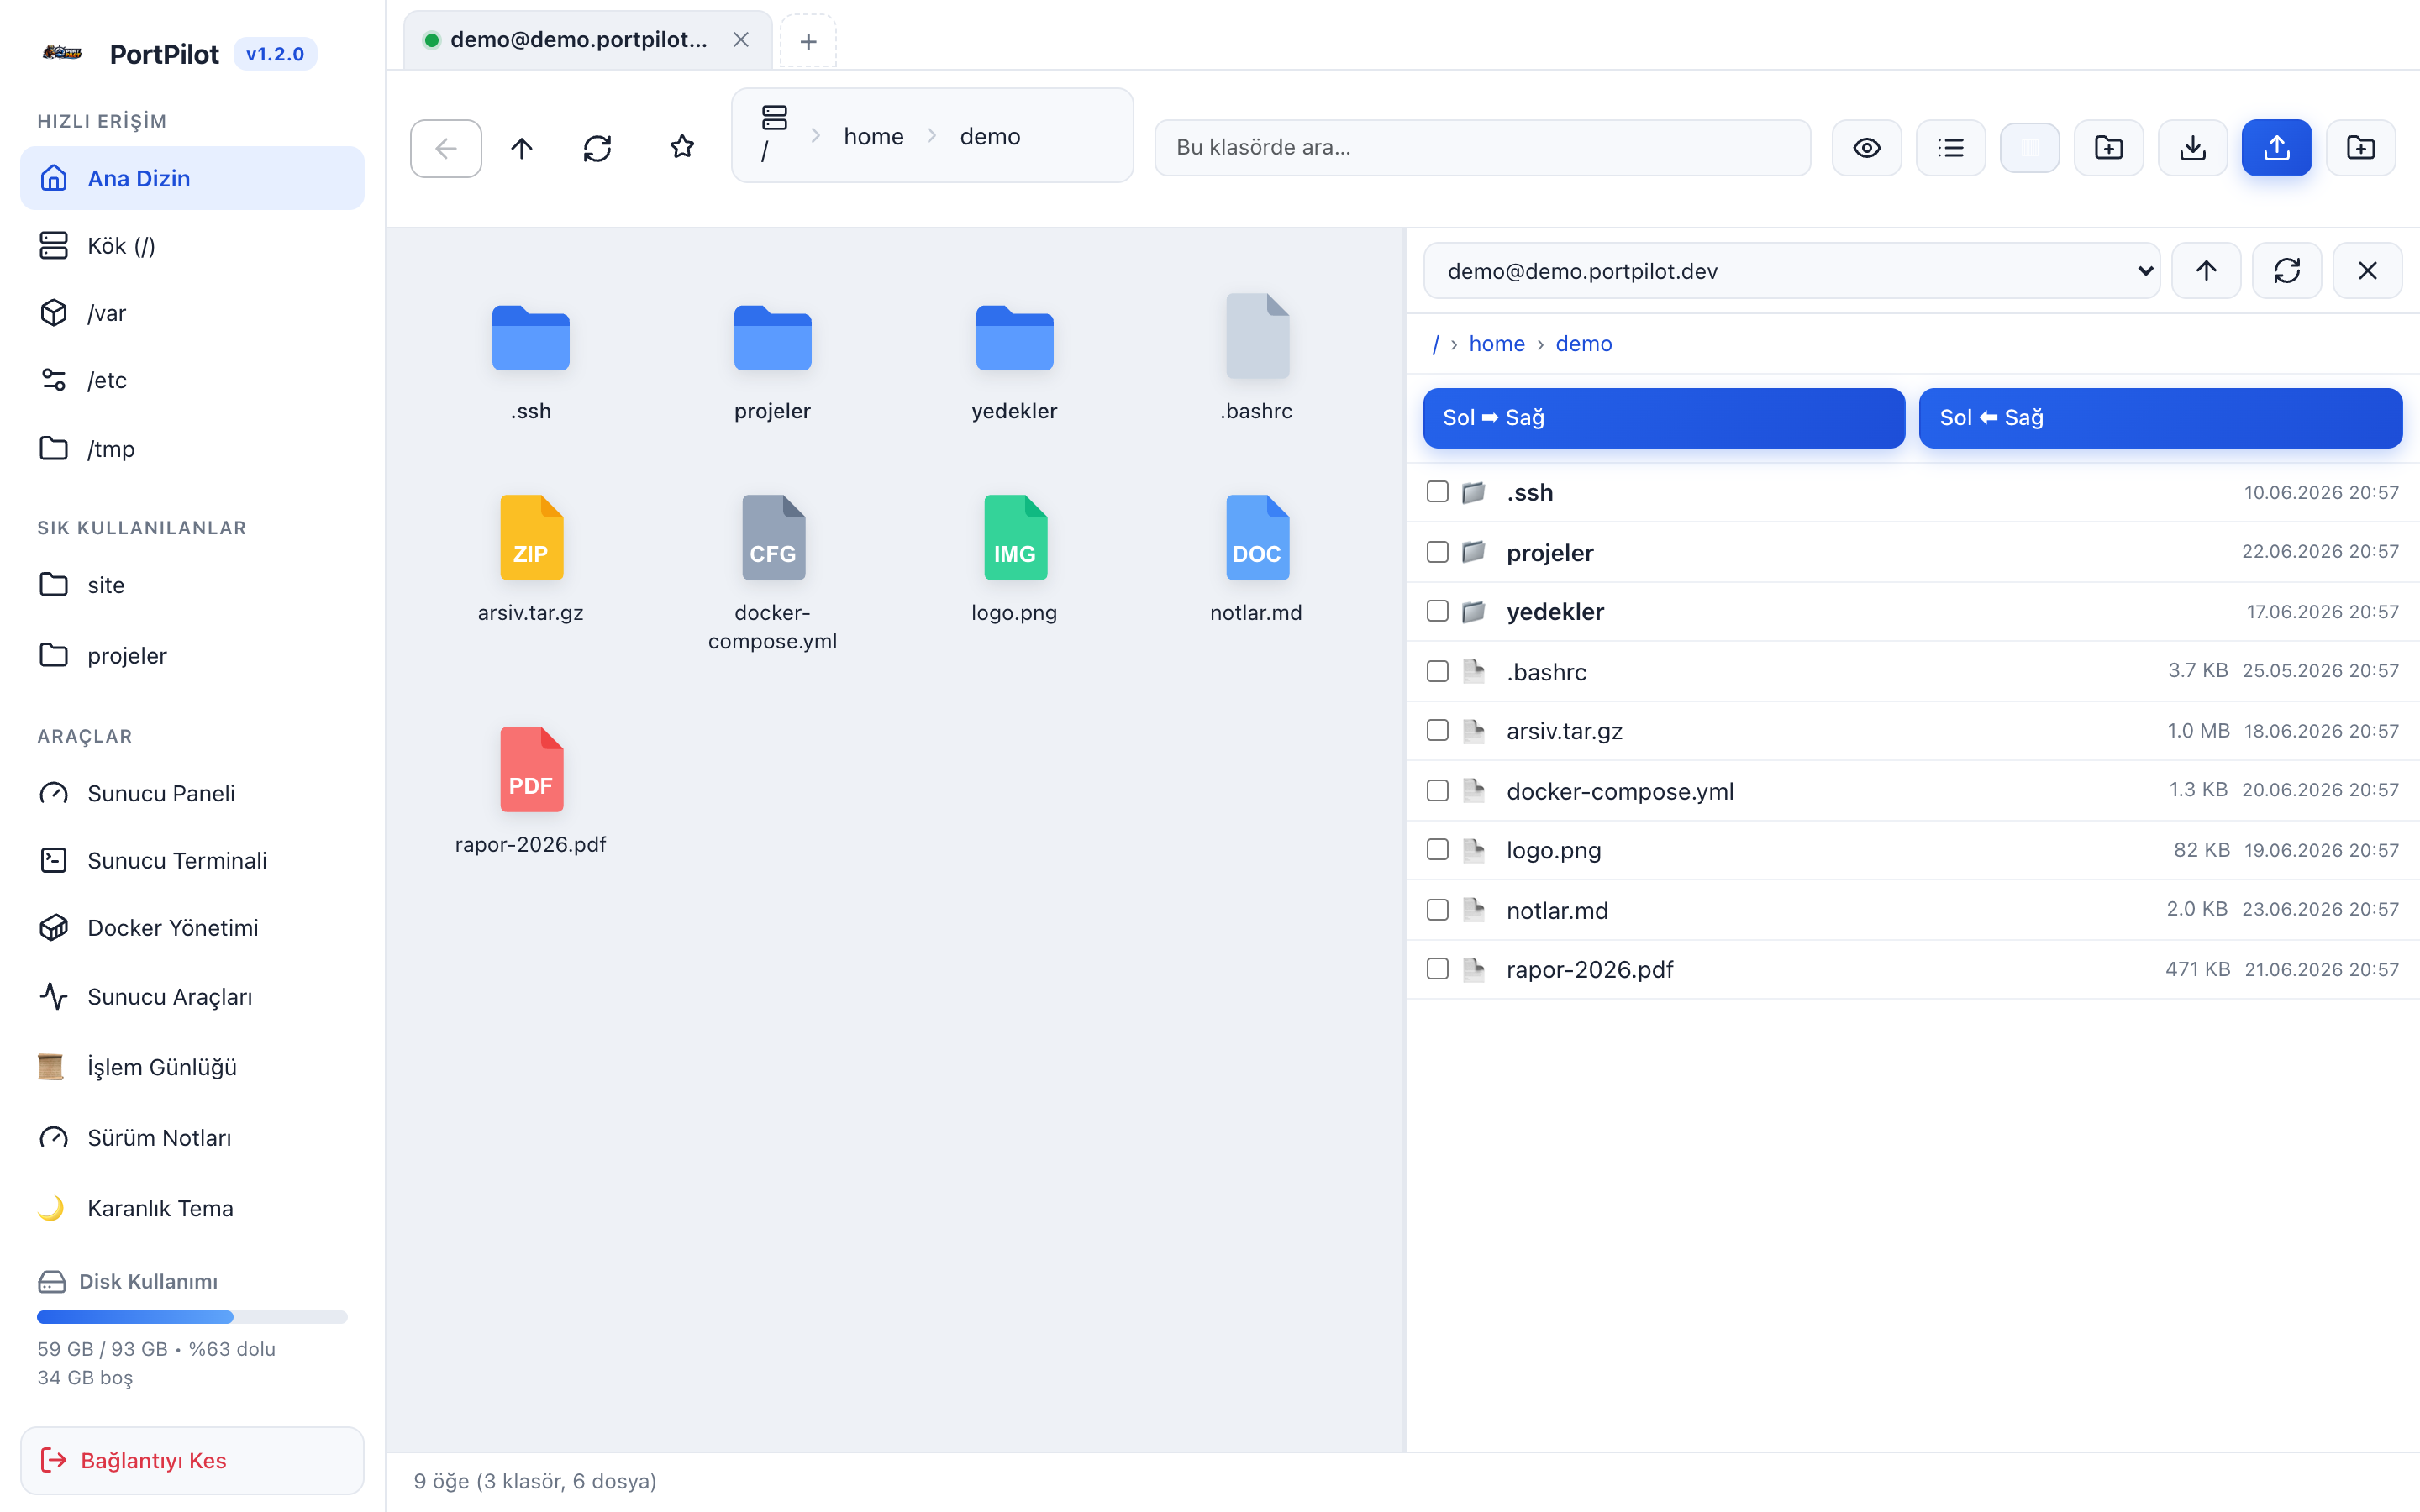
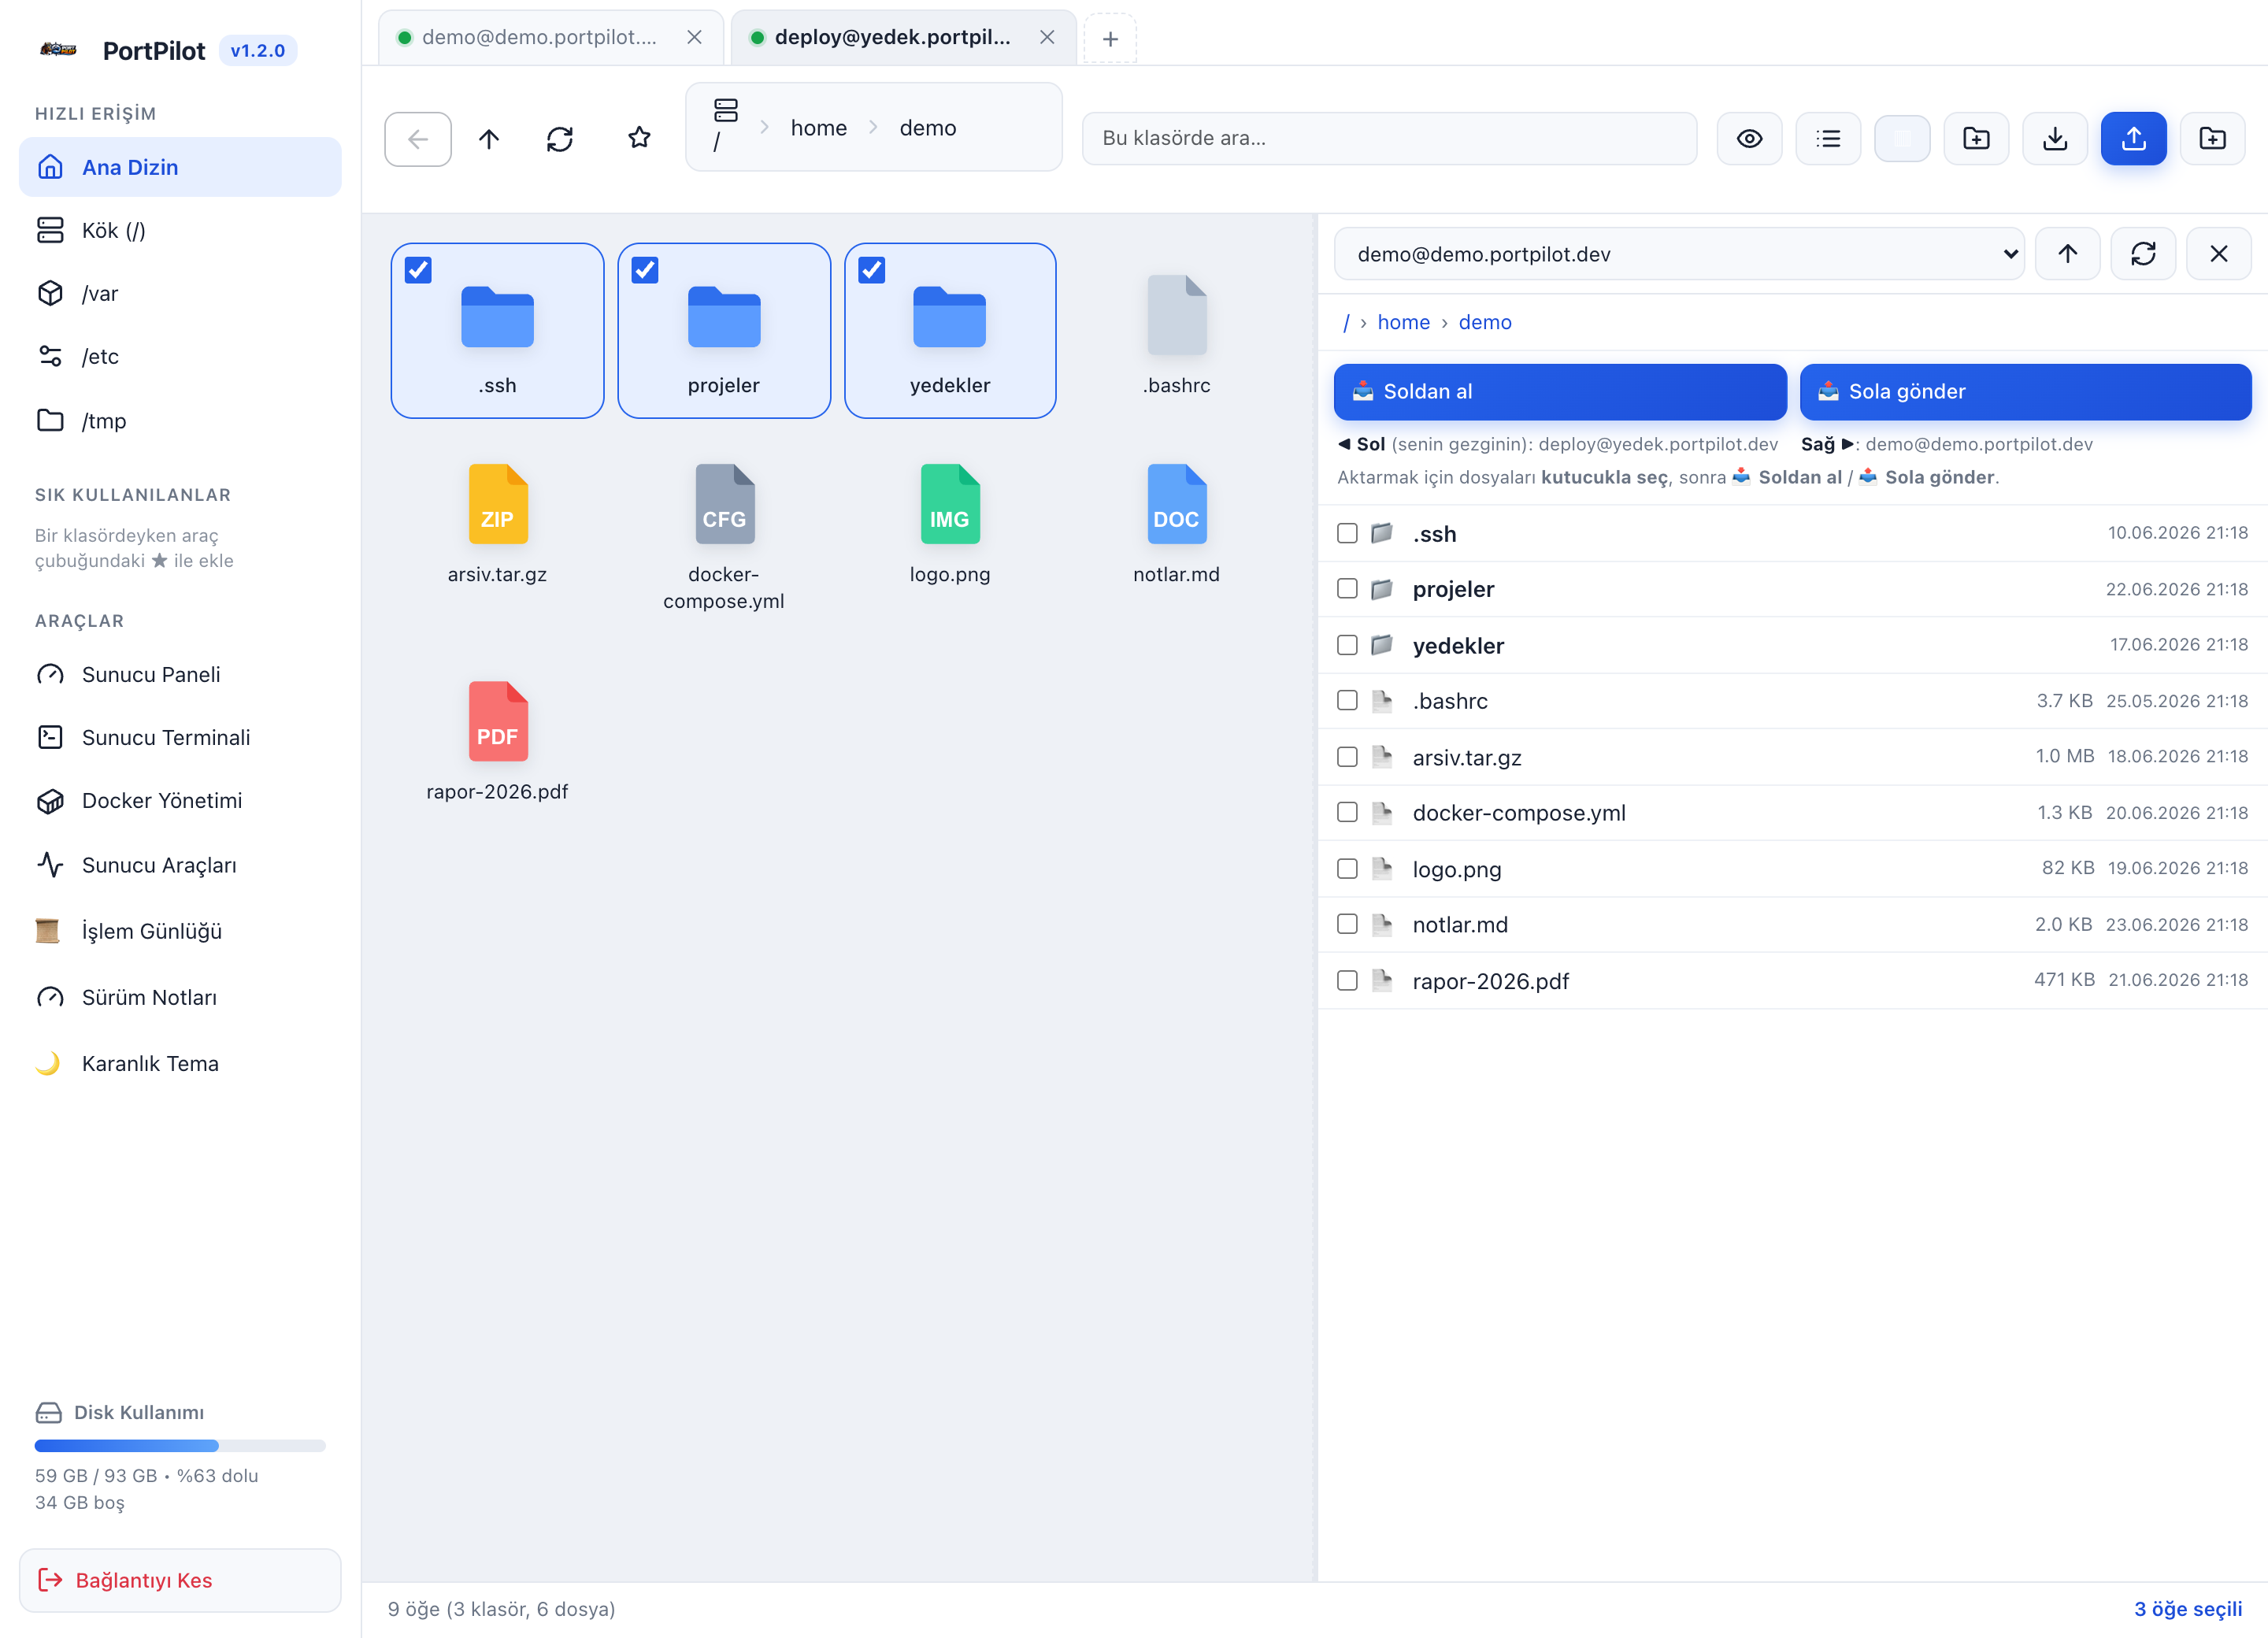
fix: dashboard çift panel sarmalayıcısı yüzünden kesiliyordu; aktarımı netleştir [release]
- Sunucu Paneli (dashboard) açıkken boş .panes (flex:1) paneli sıkıştırıp kestiriyordu;
  dashboard görünümünde tüm .panes sarmalayıcısı gizleniyor (.panes[hidden] kuralı eklendi)
- Çift panel açılınca sol taraf dosya gezginine zorlanıyor (showFilesView)
- Aktarım düğmeleri netleşti: "📥 Soldan al" / "📤 Sola gönder" + her iki panelin
  kimliğini ve eylemi açıklayan ipucu satırı (dp-xfer-hint)
- Ekran görüntüleri (dashboard tam, iki sunuculu dual-pane) yenilendi

diff --git a/public/js/dual-pane.js b/public/js/dual-pane.js
@@ -12,6 +12,22 @@ const dp = { connId: null, tok: null, cwd: "/", items: [] };
 
 function listConns() { return connections.filter((c) => c.session); }
 function connLabel(c) { return (c.info && (c.info.name || `${c.info.username}@${c.info.host}`)) || c.id; }
+function activeConn() { return connections.find((c) => c.id === activeConnId); }
+function activeLabel() { const c = activeConn(); return c ? connLabel(c) : "aktif sunucu"; }
+
+// İki panelin kim olduğunu ve ne yapılacağını açıkça yaz.
+function setHint() {
+  const el = $("dp-xfer-hint");
+  if (!el) return;
+  const right = dp.connId ? connLabel(connections.find((c) => c.id === dp.connId) || {}) : "—";
+  const same = dp.tok && activeConn() && activeConn().session === dp.tok;
+  el.innerHTML =
+    `<span class="dp-side"><b>◀ Sol</b> (senin gezginin): ${escapeHtml(activeLabel())}</span>` +
+    `<span class="dp-side"><b>Sağ ▶</b>: ${escapeHtml(right)}</span>` +
+    (same
+      ? `<span class="dp-warn">⚠ İki panel aynı sunucu — aktarım için farklı bir sunucu seç.</span>`
+      : `<span class="dp-tip">Aktarmak için dosyaları <b>kutucukla seç</b>, sonra <b>📥 Soldan al</b> / <b>📤 Sola gönder</b>.</span>`);
+}
 
 async function listDir(tok, path) {
   const res = await fetch("/api/list?path=" + encodeURIComponent(path), { headers: tok ? { "x-session": tok } : {} });
@@ -35,6 +51,7 @@ async function setConn(id) {
   const c = connections.find((x) => x.id === id);
   if (!c) return;
   dp.connId = id; dp.tok = c.session; dp.cwd = c.homePath || "/";
+  setHint();
   await loadDp();
 }
 
@@ -110,7 +127,8 @@ function transferLeftToRight() {
   if (!sel.length) return toast("Sol panelde aktarılacak öğe seç (kutucukla).", true);
   const c = connections.find((x) => x.id === activeConnId);
   if (c && c.session === dp.tok) return toast("İki panel aynı sunucu — farklı bir sunucu seç.", true);
-  enqueueTransfer(`Sol → Sağ (${sel.length})`, async () => {
+  const rightName = connLabel(connections.find((x) => x.id === dp.connId) || {});
+  enqueueTransfer(`Soldan al → ${rightName} (${sel.length})`, async () => {
     await runTransfer(session, dp.tok, dp.cwd, sel);
     loadDp();
   });
@@ -123,7 +141,7 @@ function transferRightToLeft() {
   if (!sel.length) return toast("Sağ panelde aktarılacak öğe seç (kutucukla).", true);
   const c = connections.find((x) => x.id === activeConnId);
   if (c && c.session === dp.tok) return toast("İki panel aynı sunucu — farklı bir sunucu seç.", true);
-  enqueueTransfer(`Sağ → Sol (${sel.length})`, async () => {
+  enqueueTransfer(`Sola gönder → ${activeLabel()} (${sel.length})`, async () => {
     await runTransfer(dp.tok, session, cwd, sel);
     navigate(cwd, false);
   });
@@ -137,8 +155,12 @@ function toggle() {
   pane.hidden = !isOpen;
   $("btn-split").classList.toggle("active", isOpen);
   if (!isOpen) return;
+  // Sol tarafta panel (dashboard) açıksa dosya gezginine geç — yoksa kullanıcı
+  // kendi dosyalarını göremez ve aktarım için seçim yapamaz.
+  import("./dashboard.js").then((m) => m.showFilesView()).catch(() => {});
   if (listConns().length < 2)
     toast("Çift panel için ikinci bir sunucuya bağlan (yeni sekmede). Tek sunucu arasında aktarım yapılamaz.", true);
+  setHint();
   populateSelect();
   const id = $("dp-conn").value;
   if (id) setConn(id); else loadDp();

diff --git a/public/style.css b/public/style.css
@@ -3380,6 +3380,7 @@ body.locked { overflow: hidden; }
 
 /* ---- Çift panel (split-pane) ---- */
 .panes { flex: 1; display: flex; min-height: 0; min-width: 0; }
+.panes[hidden] { display: none; } /* .panes display:flex, [hidden]'ı ezdiği için açıkça gizle */
 .panes > .file-area { min-width: 0; }
 .split-ico { font-size: 14px; line-height: 1; }
 #btn-split.active { background: var(--accent); border-color: var(--accent); color: #fff; }
@@ -3398,9 +3399,19 @@ body.locked { overflow: hidden; }
 .dp-bread .crumb { cursor: pointer; color: var(--accent-2); padding: 1px 4px; border-radius: 5px; }
 .dp-bread .crumb:hover { background: var(--hover); }
 .dp-bread .sep { color: var(--muted); }
-.dp-transfer { display: flex; gap: 8px; padding: 8px 10px; border-bottom: 1px solid var(--border-soft); }
+.dp-transfer { display: flex; gap: 8px; padding: 8px 10px 6px; }
 .dp-transfer .tbtn { flex: 1; }
+.dp-xfer-hint {
+  display: flex; flex-wrap: wrap; gap: 4px 14px; align-items: center;
+  padding: 0 12px 9px; font-size: 11.5px; color: var(--muted);
+  border-bottom: 1px solid var(--border-soft);
+}
+.dp-xfer-hint .dp-side b { color: var(--text); }
+.dp-xfer-hint .dp-tip { flex-basis: 100%; }
+.dp-xfer-hint .dp-warn { flex-basis: 100%; color: var(--danger); font-weight: 600; }
 .dp-list { flex: 1; overflow: auto; }
+/* Çift panel açıkken sol gezgini görsel olarak ayır + "senin" olduğunu belli et */
+.panes.split > .file-area { border-right: 1px dashed var(--border); }
 .dp-row {
   display: grid; grid-template-columns: auto auto 1fr auto auto; align-items: center; gap: 8px;
   padding: 6px 12px; border-bottom: 1px solid var(--border-soft); cursor: default;

diff --git a/public/index.html b/public/index.html
@@ -306,9 +306,10 @@
       </div>
       <div class="dp-bread" id="dp-bread"></div>
       <div class="dp-transfer">
-        <button type="button" id="dp-to-right" class="btn btn-sm tbtn primary" title="Sol paneldeki seçili öğeleri bu (sağ) panele aktar">Sol ➡ Sağ</button>
-        <button type="button" id="dp-to-left" class="btn btn-sm tbtn primary" title="Bu (sağ) paneldeki seçili öğeleri sol panele aktar">Sol ⬅ Sağ</button>
+        <button type="button" id="dp-to-right" class="btn btn-sm tbtn primary" title="Sol paneldeki (aktif sunucu) seçili dosyaları bu sağ sunucudaki açık klasöre kopyalar">📥 Soldan al</button>
+        <button type="button" id="dp-to-left" class="btn btn-sm tbtn primary" title="Bu sağ paneldeki seçili dosyaları sol (aktif) sunucudaki açık klasöre kopyalar">📤 Sola gönder</button>
       </div>
+      <div class="dp-xfer-hint" id="dp-xfer-hint"></div>
       <div class="dp-list" id="dp-list"></div>
     </aside>
     </div>

diff --git a/public/js/dashboard.js b/public/js/dashboard.js
@@ -161,7 +161,10 @@ export async function loadDashboard() {
 // Ana bölümde paneli göster (dosya görünümünü gizle)
 function setDashboardView(on) {
   if ($("dash-view")) $("dash-view").hidden = !on;
-  if ($("file-area")) $("file-area").hidden = on;
+  // Dosya alanı artık ".panes" sarmalayıcısının içinde (çift panel için). Yalnızca
+  // #file-area'yı gizlersek boş kalan .panes (flex:1) paneli sıkıştırıp kestirir;
+  // bu yüzden tüm sarmalayıcıyı gizle.
+  if ($("panes")) $("panes").hidden = on;
   if ($("statusbar")) $("statusbar").hidden = on;
 }
 